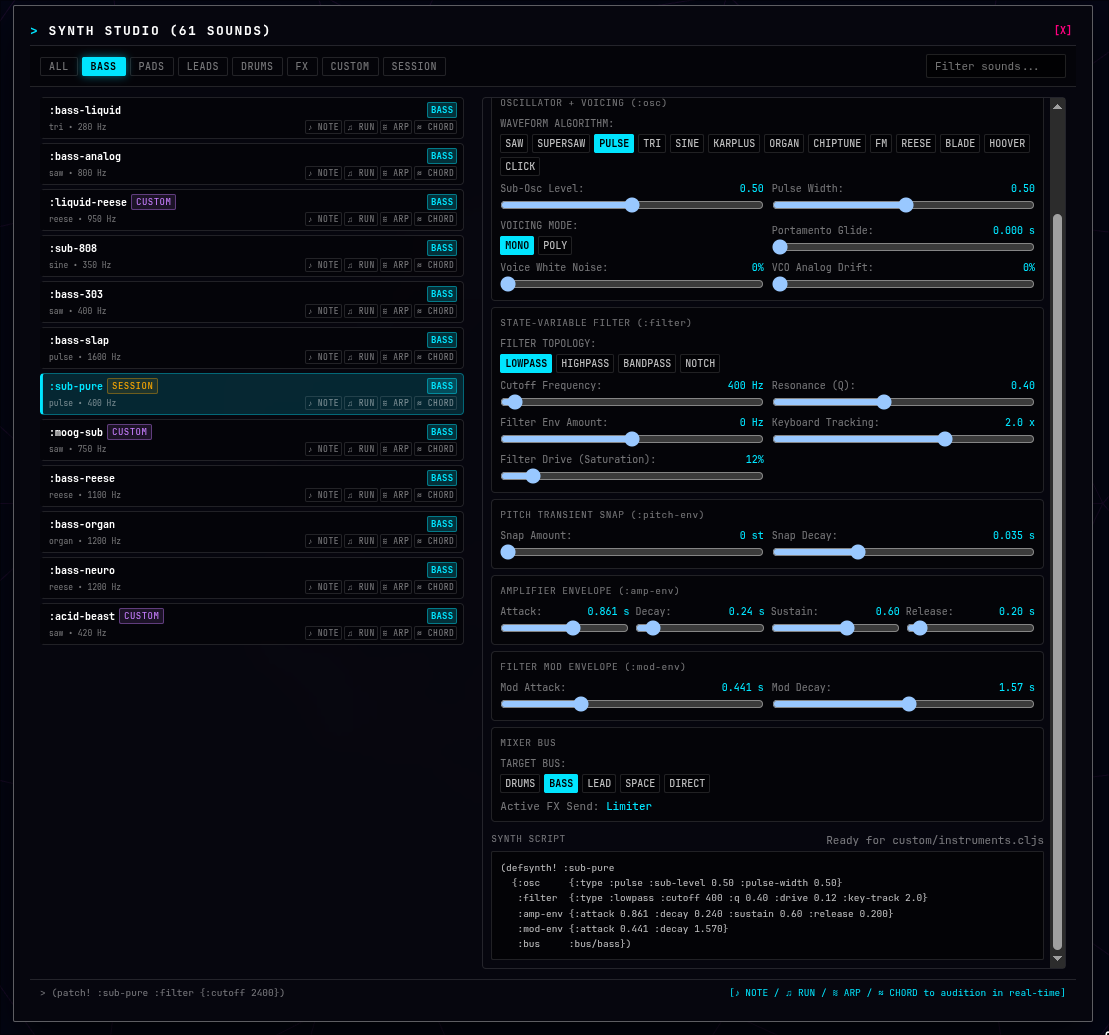
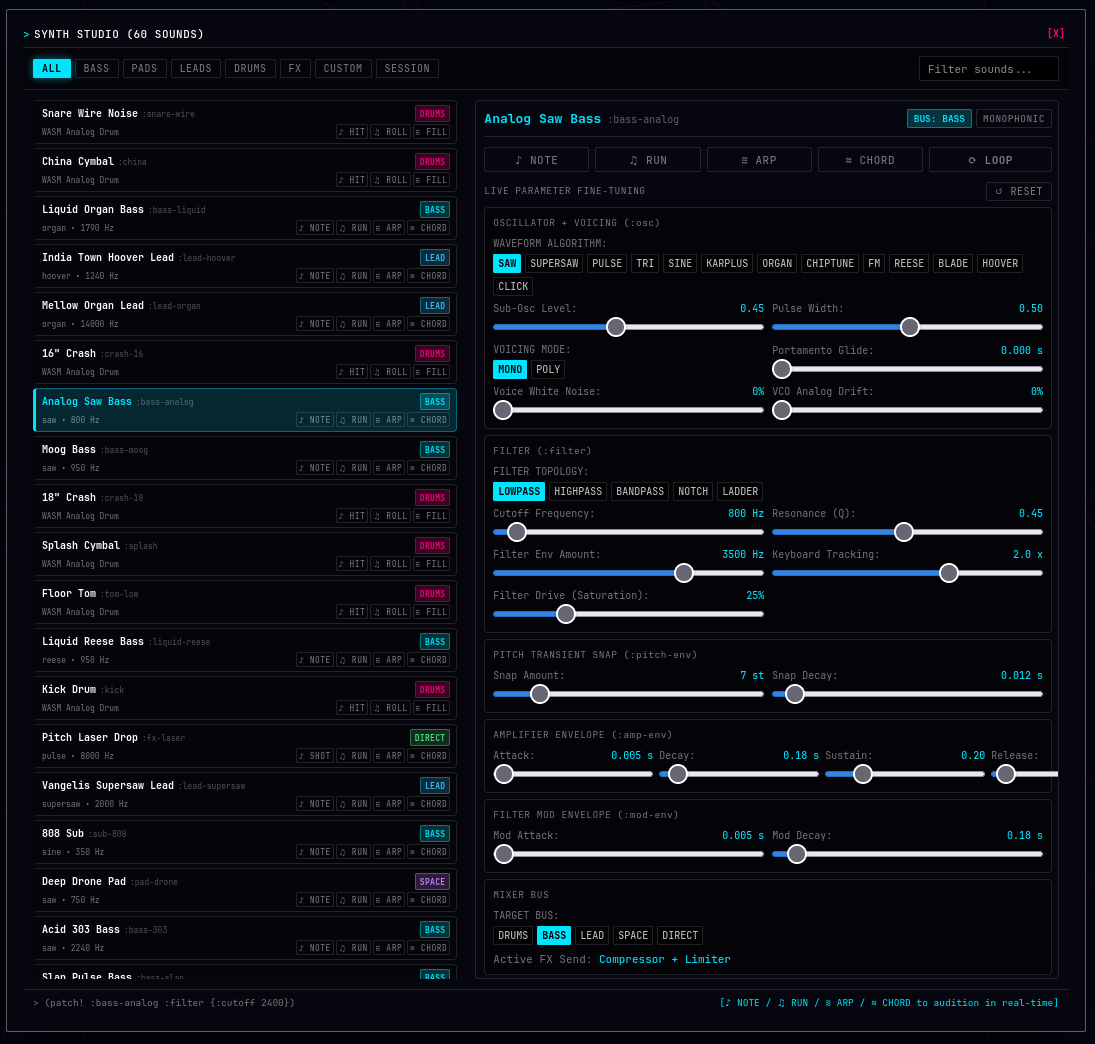
docs: update assets for README

diff --git a/README.md b/README.md
@@ -21,7 +21,7 @@ Shape algorithmic music with ClojureScript, driven by a real-time Rust WebAssemb
 
 |       System Audio Status + Mixer Matrix        |               Track Presets Library                |
 | :---------------------------------------------: | :------------------------------------------------: |
-| ![System Audio Status](assets/audio-status.png) | ![Track Presets Library](assets/track_presets.png) |
+| ![System Audio Status](assets/audio_status.png) | ![Track Presets Library](assets/track_presets.png) |
 
 ---
 
